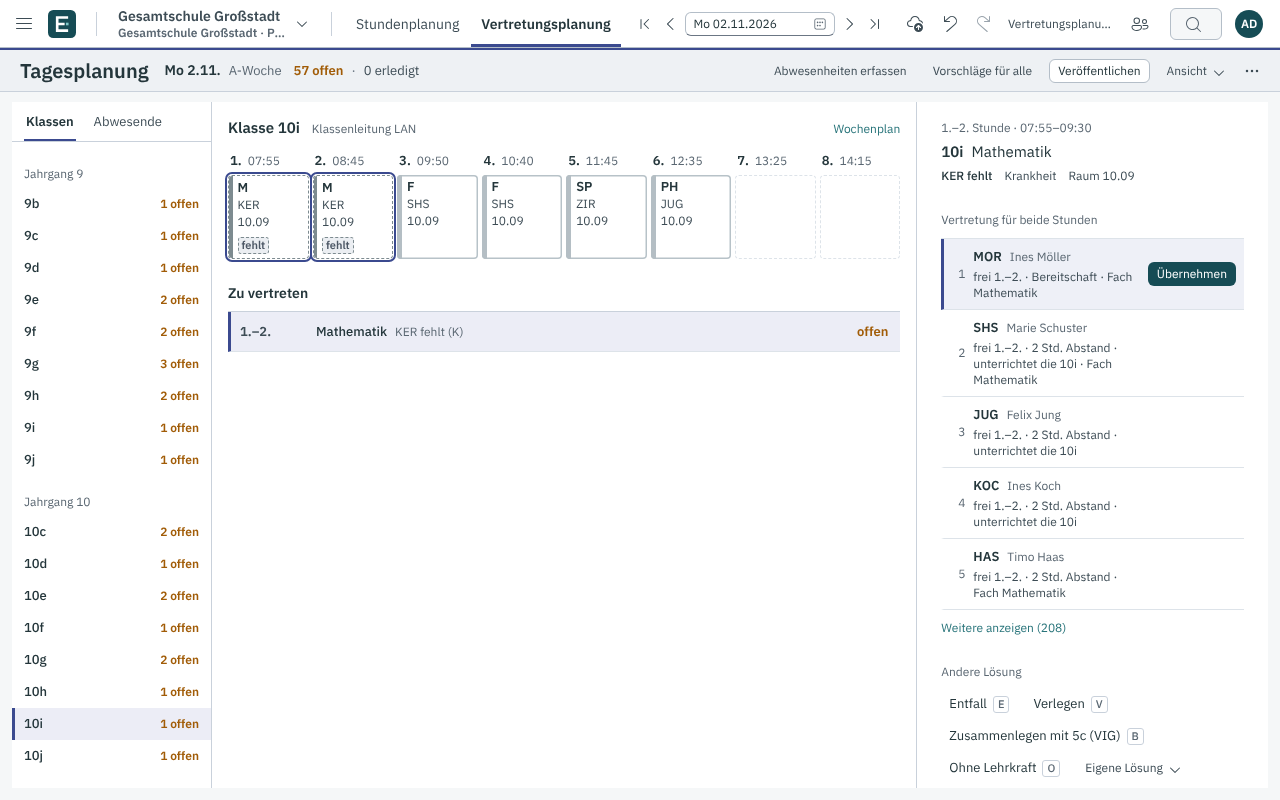
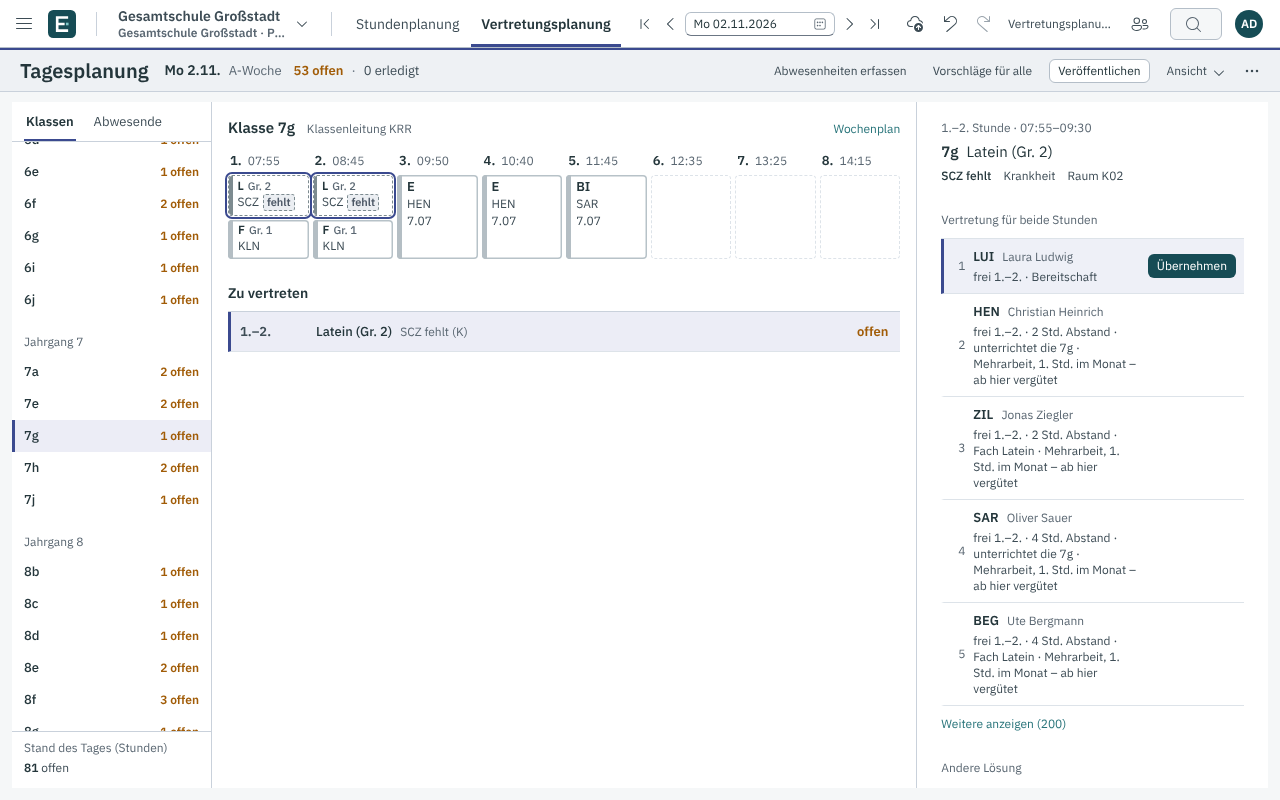
Studio-Tagesplanung „Fall für Fall“: Gruppen zur selben Zeit gemeinsam oder je Gruppe lösen, Verlegen per Ziehen mit Tag der Lehrkraft und des Raums, Stand des Tages nach NRW-Kategorien, Mehrarbeit in den Gründen; Tests, Bildschirmfotos und Handbuch
Claude-Session: https://claude.ai/code/session_01Qh4Tuihm3YFN8v1UQgn9UW

diff --git a/studio/client/src/module/vertretung/ablauf/Faelle.tsx b/studio/client/src/module/vertretung/ablauf/Faelle.tsx
@@ -54,6 +54,8 @@ const stdText = (s: number[]) => (s.length > 1 ? `${s[0]}.–${s[s.length - 1]}.
 const offen = (f: Fall) => f.zustand !== 'erledigt';
 const merkSchluessel = () => `vertretung.faelle.${useStudio.getState().benutzer?.name || ''}`;
 const gruppenName = (f: Fall) => (f.gruppe ? `${f.fach} (${f.gruppe})` : f.fach);
+/** „Latein (Gr. 2)“ – Langname mit Gruppe; bei parallelen Gruppen „F (Gr. 1) + L (Gr. 2)“ */
+const langName = (f: Fall) => (f.parallel ? f.fach : `${f.fachLang || f.fach}${f.gruppe ? ` (${f.gruppe})` : ''}`);
 const fehlenText = (f: Fall) => (f.lehrer ? `${f.lehrer} ${f.lehrerIds.length > 1 ? 'fehlen' : 'fehlt'}` : '');
 const ZIELTEXT: Record<ZielStatus, string> = { quelle: 'gezogen', frei: 'frei', luecke: 'in die Lücke', tausch: 'Tausch', abwesend: 'Lehrkraft fehlt', kollision: 'belegt' };
 
@@ -257,7 +259,7 @@ function Kopf({ fall, satz }: { fall: Fall; satz?: Fall | null }) {
   return (
     <div className="fa-e-kopf">
       <div className="fa-e-zeit">{`${fall.pause ? `Aufsicht nach der ${fall.stunden[0]}.` : `${stdText(fall.stunden)} Stunde`} · ${fall.zeit}`}</div>
-      <h3 className="fa-e-titel">{fall.klassen || fall.raum}<span>{satz ? gruppenName(fall) : fall.parallel ? fall.fach : fall.fachLang || fall.fach}</span></h3>
+      <h3 className="fa-e-titel">{fall.klassen || fall.raum}<span>{satz ? gruppenName(fall) : fall.parallel ? fall.fach : langName(fall)}</span></h3>
       <div className="fa-e-meta">
         {fall.parallel ? <span>{fehlenText(fall)}</span> : fall.lehrer ? (
           <button type="button" className="fa-link" onClick={() => miniplanOeffnen('lehrer', fall.lehrerId, fall.lehrer)} title={`Tag von ${fall.lehrerName || fall.lehrer} als Miniplan`}>
@@ -586,7 +588,7 @@ function Verlegen(p: EntscheidungProps) {
     <section className="fa-e-abschnitt" data-testid="fa-verlegen-liste">
       <div className="fa-e-label">{`Andere Stunde in die ${luecke}. Stunde vorziehen`}</div>
       {liste === null ? <div className="fa-leise fa-laedt"><Spinner size="extra-tiny" /> Wird gesucht …</div>
-        : !liste.length ? <div className="fa-leise">Keine Stunde lässt sich vorziehen. Eine Stunde der Leiste lässt sich auch direkt verschieben (ziehen).</div> : (
+        : !liste.length ? <div className="fa-leise" data-testid="fa-vz-leer">Keine Stunde lässt sich vorziehen.</div> : (
           <ul className="fa-vorziehen">
             {liste.slice(0, 8).map((v) => <VorziehZeile key={`${v.datum}-${v.stunde}-${v.u}`} v={v} p={p} id={id!} luecke={luecke} />)}
           </ul>
@@ -981,7 +983,7 @@ export default function Faelle() {
                   <div key={x.schluessel} role="option" aria-selected={x.schluessel === fall?.schluessel} className={mergeClasses('fa-fall', x.schluessel === fall?.schluessel && 'gewaehlt')}
                     data-schluessel={x.schluessel} data-zustand={x.zustand} data-parallel={x.parallel?.length} onClick={() => waehlen({ gruppe: gruppe.id, fall: x.schluessel })}>
                     <span className="fa-fall-std">{x.pause ? `nach ${x.stunden[0]}.` : stdText(x.stunden)}</span>
-                    <span className="fa-fall-was"><b>{modus === 'lehrer' || !x.klassenIds.length ? `${x.klassen} ${x.parallel ? x.fach : x.fachLang || x.fach}`.trim() : x.parallel ? x.fach : x.fachLang || x.fach}</b>
+                    <span className="fa-fall-was"><b>{modus === 'lehrer' || !x.klassenIds.length ? `${x.klassen} ${langName(x)}`.trim() : langName(x)}</b>
                       <span className="fa-leise">{modus === 'lehrer' ? (x.raum ? `Raum ${x.raum}` : '') : `${fehlenText(x)}${x.grund ? ` (${x.grund})` : ''}${x.klassenIds.length > 1 && gruppe.elementId ? ` · mit ${x.klassen.split(',').filter((kk) => kk !== gruppe.k).join(',')}` : ''}`}</span>
                     </span>
                     <span className={mergeClasses('fa-fall-ergebnis', art)} data-testid="fa-fall-ergebnis">

diff --git a/studio/README.md b/studio/README.md
@@ -57,22 +57,41 @@ Die Oberfläche ist eine React-Anwendung (TypeScript, Fluent UI v9) in `studio/c
   Stunde bzw. ein Block (Doppelstunde = ein Fall). Links die Klassen mit Fällen in fester Reihenfolge („5a · 2 offen“ → „erledigt“
   an derselben Stelle; wahlweise *Abwesende*), in der Mitte der Tag der Klasse als Leiste mit festen Spalten je Stunde und ihre
   Fälle, rechts die fünf besten Lehrkräfte für den ganzen Block mit Gründen in Worten („frei 1.–2. · Bereitschaft · unterrichtet
-  die 5a · Fach Englisch“) und *Übernehmen* mit einem Klick bzw. Enter. Daneben *Entfall*, *Verlegen* (eine andere Stunde der
-  Klasse in die Lücke vorziehen – die Leiste zeigt „von 6.“ bzw. „verlegt auf 1.“ an ihren Stunden), *Zusammenlegen*, *Ohne
-  Lehrkraft* und *Eigene Lösung* (Lehrkraft frei wählen, Raum, Vormerkung). Danach ist der nächste offene Fall gewählt; nichts
-  ordnet sich um. *Vorschläge für alle* schlägt blockweise für alle offenen Fälle eine Lösung vor (zur Prüfung, ohne Änderung).
-  Tasten: ↑/↓, 1–5, Enter, E, V, B, O, Z (rückgängig).
+  die 5a · Fach Englisch · Mehrarbeit, 3. Std. im Monat – ab hier vergütet“) und *Übernehmen* mit einem Klick bzw. Enter. Daneben
+  *Entfall*, *Verlegen* (eine andere Stunde der Klasse in die Lücke vorziehen – die Leiste zeigt „von 6.“ bzw. „verlegt auf 1.“ an
+  ihren Stunden), *Zusammenlegen* (im Block auch Stunde für Stunde mit verschiedenen Klassen), *Ohne Lehrkraft* und *Eigene Lösung*
+  (Lehrkraft frei wählen, Raum, Vormerkung). Danach ist der nächste offene Fall gewählt; nichts ordnet sich um. *Vorschläge für
+  alle* schlägt blockweise für alle offenen Fälle eine Lösung vor (zur Prüfung, ohne Änderung). Tasten: ↑/↓, 1–5, Enter, E, V, B,
+  O, G, Z (rückgängig).
+  * **Gruppen zur selben Zeit:** Teilungsgruppen, Kurse und Kopplungen (zwei fehlende Lehrkräfte gleichzeitig, Religion über zwei
+    Klassen) sind *ein* Fall „1.–2. · F (Gr. 1) + L (Gr. 2)“; die Leiste zeigt die Gruppen übereinander in ihrer Spalte. Rechts:
+    *Eine Lehrkraft für beide Gruppen (zusammengelegt)* – Kandidaten, die in allen Stunden aller Gruppen frei sind; die erste Gruppe
+    vertritt sie, die übrigen betreut sie mit (eine Rückgängig-Stufe) – oder je Gruppe *Einzeln lösen* (andere Lehrkraft, Entfall
+    nur einer Gruppe; Taste G). Gekoppelter Unterricht mehrerer Klassen steht in jeder Klasse und wird einmal gelöst.
+  * **Verlegen per Ziehen:** eine Stunde bzw. Doppelstunde der Leiste (Umschalt: nur diese Stunde) oder eine Stunde aus der Liste
+    *Verlegen* auf eine andere Stunde ziehen. Beim Ziehen zeigt jede Stunde der Leiste ihren Stand mit Grund („frei“, „in die
+    Lücke“, „Tausch mit SP (VOT)“, „belegt – KER unterrichtet 7b“, „Lehrkraft fehlt“), darunter erscheint – über der Fallliste,
+    ohne dass sich etwas verschiebt – der Tag der beteiligten Lehrkraft und des Raums in denselben Spalten. Ablegen in der Lücke
+    ist dasselbe Vorziehen wie der Knopf, sonst die Verlegung des Tagesplans (mit den Rückfragen Tausch/Kollision); Z macht es
+    rückgängig. Ohne Maus bleibt V.
+  * **Stand des Tages** unter der Klassenliste in den Kategorien der NRW-Unterrichtsstatistik: im Fach vertreten, fachfremd,
+    zusammengelegt, ohne Lehrkraft/EVA, verlegt, Ausfall, offen (siehe `docs/RECHERCHE-VERTRETUNG.md`).
 
   | 13-Zoll-Notebook (1280 × 800) | Nach dem Übernehmen | Verlegen: Stunde vorgezogen |
   |---|---|---|
   | ![Doppelstunde](docs/bilder/tagesplanung-1280-doppelstunde.png) | ![Übernommen](docs/bilder/tagesplanung-1280-uebernommen.png) | ![Vorgezogen](docs/bilder/tagesplanung-1280-vorgezogen.png) |
 
-  | 1440 × 900 | Vorschläge für alle | Nach abwesender Lehrkraft |
+  | Gruppen zur selben Zeit | Eine Lehrkraft für beide Gruppen | Je Gruppe: Gr. 2 Entfall |
   |---|---|---|
-  | ![Doppelstunde 1440](docs/bilder/tagesplanung-1440-doppelstunde.png) | ![Vorschläge](docs/bilder/tagesplanung-1440-vorschlaege.png) | ![Abwesende](docs/bilder/tagesplanung-1440-abwesende.png) |
+  | ![Parallele Gruppen](docs/bilder/tagesplanung-1280-parallel.png) | ![Zusammengelegt](docs/bilder/tagesplanung-1280-parallel-zusammengelegt.png) | ![Gruppe einzeln](docs/bilder/tagesplanung-1280-gruppe-einzeln.png) |
 
-  Aufnahmen mit der Lastschule aus dem Test (`Grossschule.cs`: 300 Lehrkräfte, 60 Klassen) und 15 Abwesenheiten (57 Fälle,
-  72 offene Stunden). Kandidaten für einen Block kommen in etwa 0,1–0,4 s vom Server, die Vorschläge für alle in wenigen Sekunden.
+  | Ziehen: Stand je Stunde und Tag der Lehrkraft | Vorschläge für alle (1440 × 900) | Nach abwesender Lehrkraft (1440 × 900) |
+  |---|---|---|
+  | ![Ziehen](docs/bilder/tagesplanung-1280-ziehen.png) | ![Vorschläge](docs/bilder/tagesplanung-1440-vorschlaege.png) | ![Abwesende](docs/bilder/tagesplanung-1440-abwesende.png) |
+
+  Aufnahmen mit der Lastschule aus dem Test (`Grossschule.cs`: 300 Lehrkräfte, 60 Klassen, Religion je zwei Klassen gekoppelt,
+  ab Jahrgang 7 Wahlpflicht geteilt) und 15 Abwesenheiten (davon beide Lehrkräfte einer geteilten Klasse; etwa 53 Fälle, 80
+  offene Stunden). Kandidaten für einen Block kommen in etwa 0,1–0,4 s vom Server, die Vorschläge für alle in wenigen Sekunden.
 * **Übersicht:** Kennzahlen der Schuldatei, Planqualität und häufige Aufgaben.
 * **Darstellung:** Marke EduOrga (`design/MARKE.md`): Primärfarbe Petrol #164C55 (Logo, Seitenleiste, Knöpfe), Akzent #28747A
   (aktive Bereiche, Links, Fokus), Seitenhintergrund #F5F7F8, Text #24363B; Fluent-Thema aus der Petrol-Reihe (`client/src/theme.ts`).
@@ -130,7 +149,8 @@ STUDIO_TEST_MYSQL="Server=127.0.0.1;Port=3306;User ID=root;Password=…" dotnet 
 NODE_PATH=$(npm root -g) STUDIO_PASSWORT=geheim123 node studio/tests/smoke/smoke.cjs            # Rundgang über alle Seiten
 NODE_PATH=$(npm root -g) STUDIO_PASSWORT=geheim123 node studio/tests/smoke/planung.cjs          # Planen, Ziehen, Optimierung
 NODE_PATH=$(npm root -g) STUDIO_PASSWORT=geheim123 node studio/tests/smoke/vertretung.cjs       # Vertretungsplanung
-# Tagesplanung „Fall für Fall“ mit großer Schule (300 Lehrkräfte, 60 Klassen, 15 Abwesenheiten) bei 1280×800 und 1440×900:
+# Tagesplanung „Fall für Fall“ mit großer Schule (300 Lehrkräfte, 60 Klassen, Gruppen und Kopplungen, 15 Abwesenheiten) bei
+# 1280×800 und 1440×900 – Doppelstunde, Verlegen, Gruppen gemeinsam/einzeln lösen, Verlegen per Ziehen mit Lehrerplan:
 STUDIO_GROSSSCHULE=/tmp/gross.up dotnet test studio/tests/UntPlanStudio.Tests --filter GrosseSchuleMitFuenfzehnAbwesenheiten
 NODE_PATH=$(npm root -g) STUDIO_PASSWORT=geheim123 STUDIO_GROSSSCHULE=/tmp/gross.up node studio/tests/smoke/tagesplanung-gross.cjs
 NODE_PATH=$(npm root -g) STUDIO_PASSWORT=geheim123 node studio/tests/smoke/druck.cjs            # Einstellungen, Druck, Formate

diff --git a/docs/HANDBUCH.md b/docs/HANDBUCH.md
@@ -452,7 +452,7 @@ Seitenleiste auf dieser Seite von selbst ein; der Menüknopf oben links bzw. **S
 
 #### Fall für Fall (Standard)
 
-![Fall für Fall: Doppelstunde der 10i, die fünf besten Lehrkräfte für beide Stunden](../studio/docs/bilder/tagesplanung-1280-doppelstunde.png)
+![Fall für Fall: Doppelstunde Latein (Gr. 2) der 7g, die fünf besten Lehrkräfte für beide Stunden](../studio/docs/bilder/tagesplanung-1280-doppelstunde.png)
 
 Ein **Fall** ist eine Stunde bzw. ein Block, der vertreten werden muss: aufeinanderfolgende Stunden desselben Unterrichts
 derselben fehlenden Lehrkraft (die Doppelstunde Englisch 1.–2. ist *ein* Fall). Ein Fall bleibt stehen, wenn er gelöst ist –
@@ -483,9 +483,45 @@ die Seite ordnet sich beim Arbeiten nie um.
   Optional ein **Hinweis für den Vertretungsplan** („Aufgaben im Lernraum“).
 - Nach jeder Entscheidung ist der **nächste offene Fall** gewählt – erst in derselben Klasse, dann in der nächsten. Oben
   rechts steht „10i 1.–2. M: MOR eingetragen“ mit **Rückgängig** (Z). Ein gelöster Fall zeigt sein Ergebnis mit
-  *Zurücksetzen*.
+  *Zurücksetzen*. Wählen Sie währenddessen selbst einen anderen Fall, bleibt Ihre Wahl stehen.
+- Bei **Zusammenlegen** im Block gilt: Betreut niemand alle Stunden, schlägt Studio Stunde für Stunde die nächstgelegene
+  Klasse vor („Zusammenlegen: 1. mit 7h (KAI), 2. mit 7c (MUE)“) – ein Klick, eine Rückgängig-Stufe.
+- Die Gründe nennen bei Lehrkräften ohne Bereitschaft die **Mehrarbeit** im Kalendermonat („Mehrarbeit, 3. Std. im Monat – ab
+  hier vergütet“; NRW: vergütet, wenn im Monat mehr als 3 Unterrichtsstunden – bei Teilzeit anteilig – geleistet werden).
+- **Unter der Klassenliste** steht der *Stand des Tages* in den Kategorien der NRW-Unterrichtsstatistik: „12 im Fach · 5
+  fachfremd · 2 zusammengelegt · 1 ohne Lehrkraft/EVA · 3 verlegt · 4 Ausfall · 37 offen“ (Unterrichtsstunden der Fälle).
 
-**Vorschläge für alle:** Der Server schlägt für jeden offenen Fall die beste Lösung vor – blockweise und der Reihe nach (wer
+**Gruppen zur selben Zeit.** Laufen in einer Klasse mehrere Stunden gleichzeitig – Teilungsgruppen (Französisch Gr. 1 und
+Latein Gr. 2), Kurse, gekoppelter Religionsunterricht, zwei fehlende Lehrkräfte zur selben Zeit –, sind sie **ein Fall**:
+„1.–2. · F (Gr. 1) + L (Gr. 2) · SCH, HAH fehlen“. Die Leiste zeigt die Gruppen in ihrer Spalte übereinander (halbe Höhe,
+Fach mit Gruppe, darunter Lehrkraft bzw. Stand). Rechts stehen die Gruppen mit ihrem Stand und darunter **Eine Lehrkraft für
+beide Gruppen (zusammengelegt)**: Lehrkräfte, die in allen Stunden aller Gruppen frei sind. *Übernehmen* (bzw. Enter) trägt sie
+für die erste Gruppe als Vertretung ein und lässt sie die übrigen Gruppen mitbetreuen – eine Rückgängig-Stufe. Soll jede Gruppe
+anders gelöst werden (eine andere Lehrkraft, Entfall nur für Gr. 2), wählen Sie **Einzeln lösen** an der Gruppe, klicken auf
+ihre Karte in der Leiste oder drücken **G** (alle → Gr. 1 → Gr. 2 → alle); oben steht dann „← Alle Gruppen“. Ist nur noch
+eine Gruppe offen, zeigt die Entscheidung die Kandidaten für diese Gruppe. Gekoppelter Unterricht mehrerer Klassen (Religion
+5a,5b) steht bei jeder Klasse und wird einmal gelöst – der Stand ist in beiden Klassen derselbe. Fehlt nur die Lehrkraft einer
+Gruppe, ist *Zusammenlegen mit … (gekoppelt)* meist die erste Wahl: die Lehrkraft der anderen Gruppe betreut mit.
+
+| Gruppen zur selben Zeit | Eine Lehrkraft für beide Gruppen | Je Gruppe: Gr. 2 Entfall |
+|---|---|---|
+| ![Parallele Gruppen](../studio/docs/bilder/tagesplanung-1280-parallel.png) | ![Zusammengelegt](../studio/docs/bilder/tagesplanung-1280-parallel-zusammengelegt.png) | ![Gruppe einzeln](../studio/docs/bilder/tagesplanung-1280-gruppe-einzeln.png) |
+
+**Verlegen per Ziehen.** Jede Stunde der Leiste lässt sich mit der Maus auf eine andere Stunde ziehen – eine Doppelstunde als
+Ganzes (mit gedrückter Umschalttaste nur die gegriffene Stunde); ebenso eine Stunde aus der Liste *Verlegen* (auch von einem
+anderen Tag) auf die Lücke. Sobald Sie ziehen, zeigt jede Stunde der Leiste, ob es dort geht: **frei** und **in die Lücke**
+grün, **Tausch** (mit der dortigen Stunde) bernsteinfarben, **belegt** bzw. **Lehrkraft fehlt** rot umrandet – jeweils mit dem
+Grund („KER unterrichtet 7b D“, „7a hat M (MUE)“, „Raum 6.07 belegt – anderer Raum“). Darunter erscheint, über der Liste der
+Fälle und ohne dass sich etwas verschiebt, der **Tag der Lehrkraft** der gezogenen Stunde (bei Kopplungen aller Lehrkräfte) und
+des **Raums** in denselben Spalten; die Stunde unter dem Mauszeiger ist dort markiert und oben steht ihr Stand in Worten.
+Loslassen in der Lücke ist dasselbe **Vorziehen** wie der Knopf (die Lücke zeigt „GE aus der 7. vorgezogen“), auf einer anderen
+Stunde die Verlegung des Tagesplans mit den gewohnten Rückfragen (Tausch, Kollision, Lehrkraft fehlt). Oben rechts steht die
+Änderung mit **Rückgängig** (Z). Ohne Maus bleibt **V**.
+
+![Ziehen: GE aus der 7. in die Lücke der 1. Stunde – Stand je Stunde, darunter der Tag von SCI und des Raums 6.07](../studio/docs/bilder/tagesplanung-1280-ziehen.png)
+
+**Vorschläge für alle:** Der Server schlägt für jeden offenen Fall die beste Lösung vor – blockweise, bei Gruppen eine
+Lehrkraft für alle Gruppen, und der Reihe nach (wer
 für die 1.–2. Stunde eingeplant ist, steht für spätere Fälle derselben Zeit nicht mehr zur Verfügung), sonst Entfall bei
 Randstunden. Geändert wird noch nichts: In der Mitte erscheint „56 Vorschläge zur Prüfung“ mit **Alle übernehmen** und
 **Verwerfen**, jede Zeile zeigt „Vorschlag MUE“, die Entscheidung oben den Vorschlag mit *Übernehmen* (bzw. Enter). Alle
@@ -496,10 +532,11 @@ Randstunden. Geändert wird noch nichts: In der Mitte erscheint „56 Vorschläg
 | ↑ / ↓ | vorheriger / nächster Fall (über die Klassen hinweg) |
 | Bild↑ / Bild↓ | vorherige / nächste Klasse |
 | 1 – 5 | Lehrkraft wählen |
-| Enter | gewählte Lehrkraft (bzw. den Vorschlag) übernehmen |
+| G | Gruppen eines Falls durchgehen (alle → Gr. 1 → Gr. 2 → alle) |
+| Enter | gewählte Lehrkraft (bzw. den Vorschlag) übernehmen – bei Gruppen für alle Gruppen |
 | E, V, B, O | Entfall, Verlegen, Zusammenlegen, ohne Lehrkraft |
 | Z | letzte Änderung rückgängig |
-| Esc | Verlegen schließen |
+| Esc | Verlegen schließen bzw. zurück zu allen Gruppen; beim Ziehen: abbrechen |
 | N | Abwesenheit erfassen |
 
 Auch große Schulen bleiben flüssig: Der Server liefert die Fälle des Tages und den Tag aller Klassen in einem Zug, die

diff --git a/studio/docs/RECHERCHE-VERTRETUNG.md b/studio/docs/RECHERCHE-VERTRETUNG.md
@@ -87,3 +87,44 @@ Klassen* bzw. *Lehrkräften* im Menü *Ansicht*.
 12. Vertretungskonzept eines Bremer Gymnasiums (Arten von Abwesenheit, Einsatz der Software): https://309.sixcms.schule.bremen.de/sixcms/media.php/13/Vertretungskonzept%20Gymnasium%20Horn%20Stand%202026%20-%20Version%20Homepage.pdf
 13. Übersicht von Werkzeugen zur Vertretungsplanung (Anbieterseite, kritisch gelesen): https://www.ki-syndikat.de/usecases/bildung/19-vertretungsplanung/
 14. Offene Anzeige-Apps: https://github.com/Skn0tt/vplan, https://f-droid.org/packages/io.vertretungsplan.client.android/
+
+## Nachtrag: NRW-Praxis – Gruppen, Mehrarbeit, Unterrichtsstatistik (Oktober 2026)
+
+Kurze Prüfung gegen Vorgaben und Schulkonzepte in Nordrhein-Westfalen (Websuche; die Seiten selbst ließen sich wieder nicht
+abrufen, ausgewertet wurden die Suchauszüge). Daraus übernommen, soweit einfach und für die Tagesplanung relevant:
+
+* **Unterrichtsstatistik.** NRW erhebt seit 2018/19 flächendeckend an allen öffentlichen Schulen den Unterrichtsausfall
+  („Unterrichtsausfallstatistik mit Detailerhebung“). Unterschieden werden u. a. Unterricht gemäß Stundenplan, Vertretung im
+  vorgesehenen Fach, fachfremde Vertretung, eigenverantwortliches Arbeiten (EVA, Oberstufe) und ersatzloser Ausfall; 2023/24
+  z. B. 8,1 % Vertretung bei unveränderter Lerngruppe, 1,4 % EVA, 4,8 % ersatzloser Ausfall, 2024/25 3,0 % Ausfall und 10,0 %
+  vertreten (davon 5,2 % im vorgesehenen Fach). *(Quellen 15–18)* → **Umgesetzt:** „Stand des Tages“ unter der Klassenliste in
+  „Fall für Fall“ zählt die Unterrichtsstunden der Fälle in diesen Kategorien (im Fach, fachfremd, zusammengelegt, ohne
+  Lehrkraft/EVA, verlegt, Ausfall, offen). Das ist eine Orientierung beim Planen („wie viel fällt heute aus, wie viel ist
+  fachgerecht vertreten?“), keine Meldung; gemeldet wird weiterhin aus der Zählung bzw. dem Schulverwaltungsprogramm.
+* **Mehrarbeit.** Lehrkräfte leisten Mehrarbeit, wenn zwingende dienstliche Gründe es erfordern (ADO); vergütet wird
+  Unterrichtsmehrarbeit nach BASS 21-22 Nr. 21, wenn im Kalendermonat mehr als drei Unterrichtsstunden über die Pflichtstunden
+  hinaus geleistet werden (dann ab der ersten Stunde), höchstens 288 Stunden im Jahr, bei Teilzeit anteilig. *(Quellen 19–21)*
+  Studio rechnete das schon in der Abrechnung (`Statistik.MehrarbeitNrw`, Grenze anteilig nach Teilzeitquote).
+  → **Umgesetzt:** Die Gründe eines Kandidaten nennen bei Lehrkräften ohne Bereitschaft bzw. Freisetzung die Mehrarbeit im Monat
+  („Mehrarbeit, 3. Std. im Monat – ab hier vergütet“), damit man gerecht verteilt und Vergütungsschwellen sieht.
+* **Vertretungskonzepte** der Schulen (Beispiele aus NRW) betonen: Vertretungsunterricht ist Unterricht; Fachlehrkräfte
+  stellen Material bereit; drohender Ausfall wird zuerst über die Auflösung von Doppelbesetzungen und das Zusammenlegen von
+  Lerngruppen aufgefangen. *(Quellen 22–24)* → **Umgesetzt:** Gruppen zur selben Zeit (Teilungsgruppen, Kurse, Kopplungen) sind
+  ein Fall, der sich mit *einer* Lehrkraft für alle Gruppen lösen lässt (die erste Gruppe vertritt sie, die übrigen betreut sie
+  mit) oder je Gruppe einzeln; fehlt nur die Lehrkraft einer Gruppe, steht *Zusammenlegen (gekoppelt)* mit der Lehrkraft der
+  anderen Gruppe vorn. Zusammenlegen im Block geht auch Stunde für Stunde mit verschiedenen Klassen. Ein Hinweis für den
+  Vertretungsplan („Aufgaben im Lernraum“) war schon da.
+* **Nicht umgesetzt** (bewusst): eine eigene Kategorie „Aufhebung von Doppelbesetzung“ (Studio kennt Doppelbesetzungen nur als
+  Kopplung, die Freisetzung zählt schon getrennt), Monats-/Jahresberichte in den Kategorien der Landesstatistik (gehört in
+  *Statistik und Abrechnung*), Höchstgrenze 288 Std./Jahr als Warnung (selten erreicht; Wochen-/Monatshöchstzahl je Lehrkraft gibt es).
+
+15. Schulministerium NRW, Bericht Unterrichtsausfall 2017/18: https://www.schulministerium.nrw/sites/default/files/documents/Bericht_Unterrichtsausfall-NRW2017-18.pdf
+16. Schulministerium NRW, Bericht Unterrichtsausfall: https://www.schulministerium.nrw/sites/default/files/documents/Bericht-Unterrichtsausfall.pdf
+17. Land NRW, Unterrichtsstatistik 2023/24: https://www.land.nrw/pressemitteilung/schulministerium-legt-detaillierte-unterrichtsstatistik-fuer-schuljahr-20232024
+18. Land NRW, Unterrichtsstatistik 2024/25: https://www.land.nrw/pressemitteilung/schulministerium-legt-unterrichtsstatistik-fuer-schuljahr-202425-vor
+19. BASS 21-22 Nr. 21 (Mehrarbeit und nebenamtlicher Unterricht im Schuldienst): https://bass.schule.nrw/1057.htm
+20. MSB NRW, Ausfüllanleitung A Bes 23 (Mehrarbeit, Drei-Stunden-Regel): https://schulverwaltungsprogramme.msb.nrw.de/download/Ausfuellanleitung_A_Bes_23.pdf
+21. Hinweise zur Mehrarbeit (Schule in NRW, LOGINEO): https://503204.logineonrw-lms.de/pluginfile.php/4773/mod_label/intro/260625%20Hinweise%20zur%20Mehrarbeit.pdf
+22. Schulministerium NRW, Vermeidung von Unterrichtsausfall: https://www.schulministerium.nrw/themen/schulsystem/unterricht/vermeidung-von-unterrichtsausfall
+23. Vertretungskonzept der Fridtjof-Nansen-Realschule Gronau: https://fnrs.gronau.de/:translation/ro/fridtjof-nansen-realschule/dokumente/vertretungskonzept.pdf?cid=hy1
+24. Vertretungskonzepte NRW (Beispiele): https://nrw.edumaps.de/file/1075955918937949576.docx/vjsa0be, https://124552.logineonrw-lms.de/pluginfile.php/3289/unilabeltype_accordion/content/1368/Vertretungskonzept.pdf
